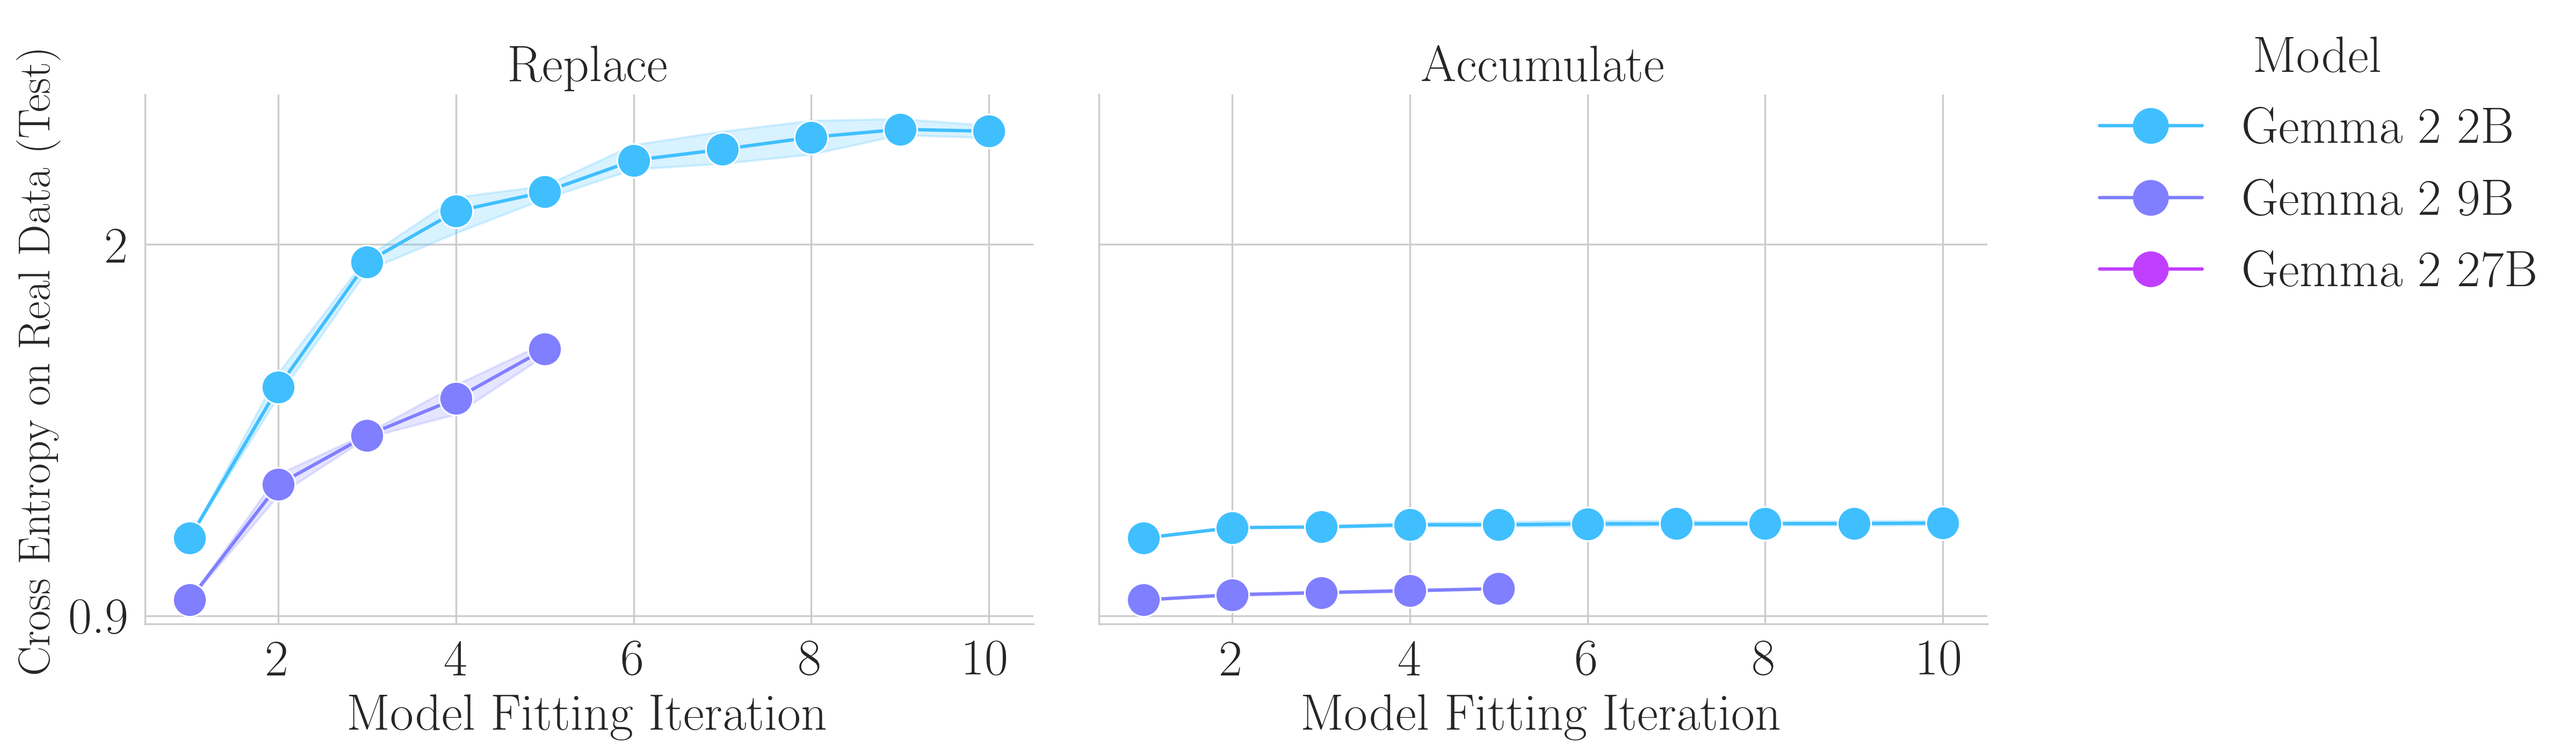
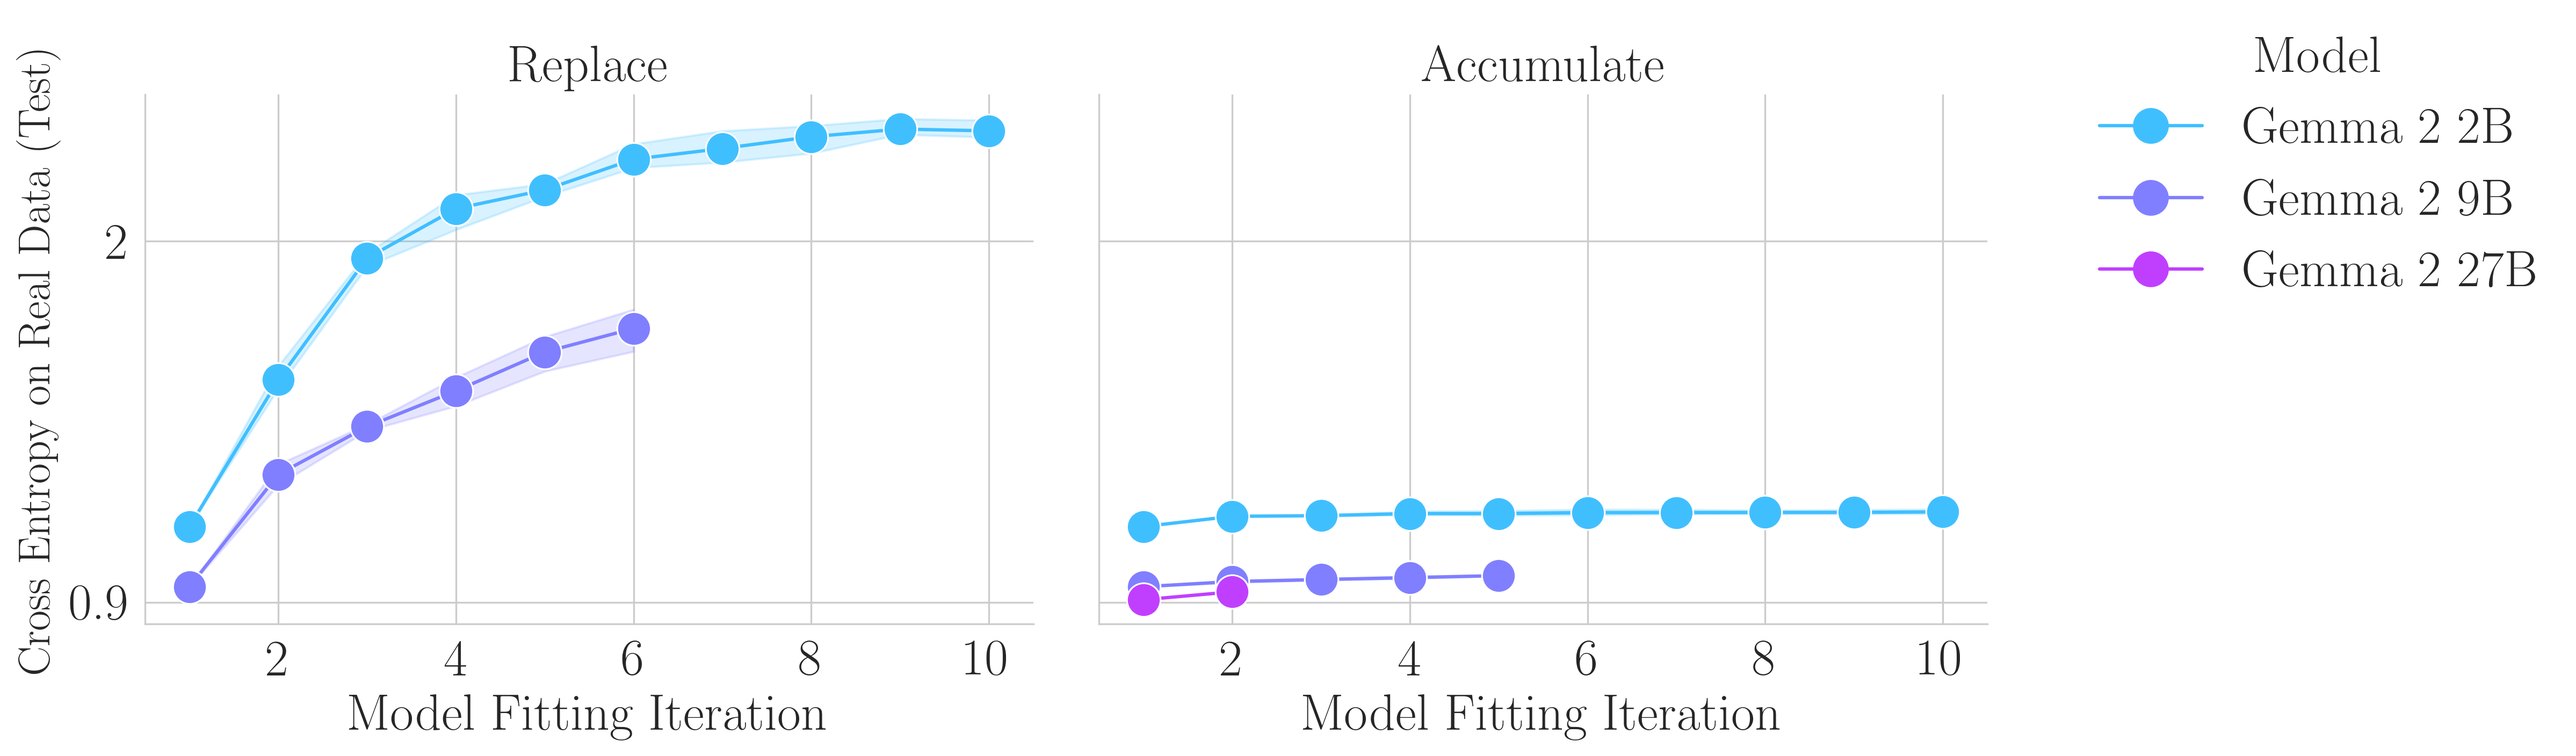
Pushing newest 01_notebook SFT LM results

diff --git a/notebooks/01_sft_language_model/01_sft_language_model.py b/notebooks/01_sft_language_model/01_sft_language_model.py
@@ -48,6 +48,10 @@ wandb_sweep_ids = [
     "9r3j5dg5",  # HelpSteer2   Gemma2-9B   Paradigm=Replace                Iteration3
     "1p9u2eq9",  # HelpSteer2   Gemma2-9B   Paradigm=Replace                Iteration4
     "nyeq61cy",  # HelpSteer2   Gemma2-9B   Paradigm=Replace                Iteration5
+    "uaoh66ds",  # HelpSteer2   Gemma2-9B   Paradigm=Replace                Iteration6
+    "2touoqm7",  # HelpSteer2   Gemma2-27B  Paradigm=Accumulate             Iteration1
+    "jrhsp696",  # HelpSteer2   Gemma2-27B  Paradigm=Accumulate             Iteration2
+    "x3ql72ir",  # HelpSteer2   Gemma2-27B  Paradigm=Replace                Iteration1
 ]
 
 runs_configs_df: pd.DataFrame = src.analyze.download_wandb_project_runs_configs(

diff --git a/src/sample_language_model/sample_language_model.py b/src/sample_language_model/sample_language_model.py
@@ -62,6 +62,7 @@ def sample_dataset_from_model():
         wandb_config["model_name_or_path"],
         dtype="bfloat16",
         enforce_eager=True,  # I don't trust Google models in FA2 and SDPA doesn't work with Gemma.
+        swap_space=16,  # Increase RAM from default 4GB to 16GB.
     )
     print("Loaded policy model.")
 
